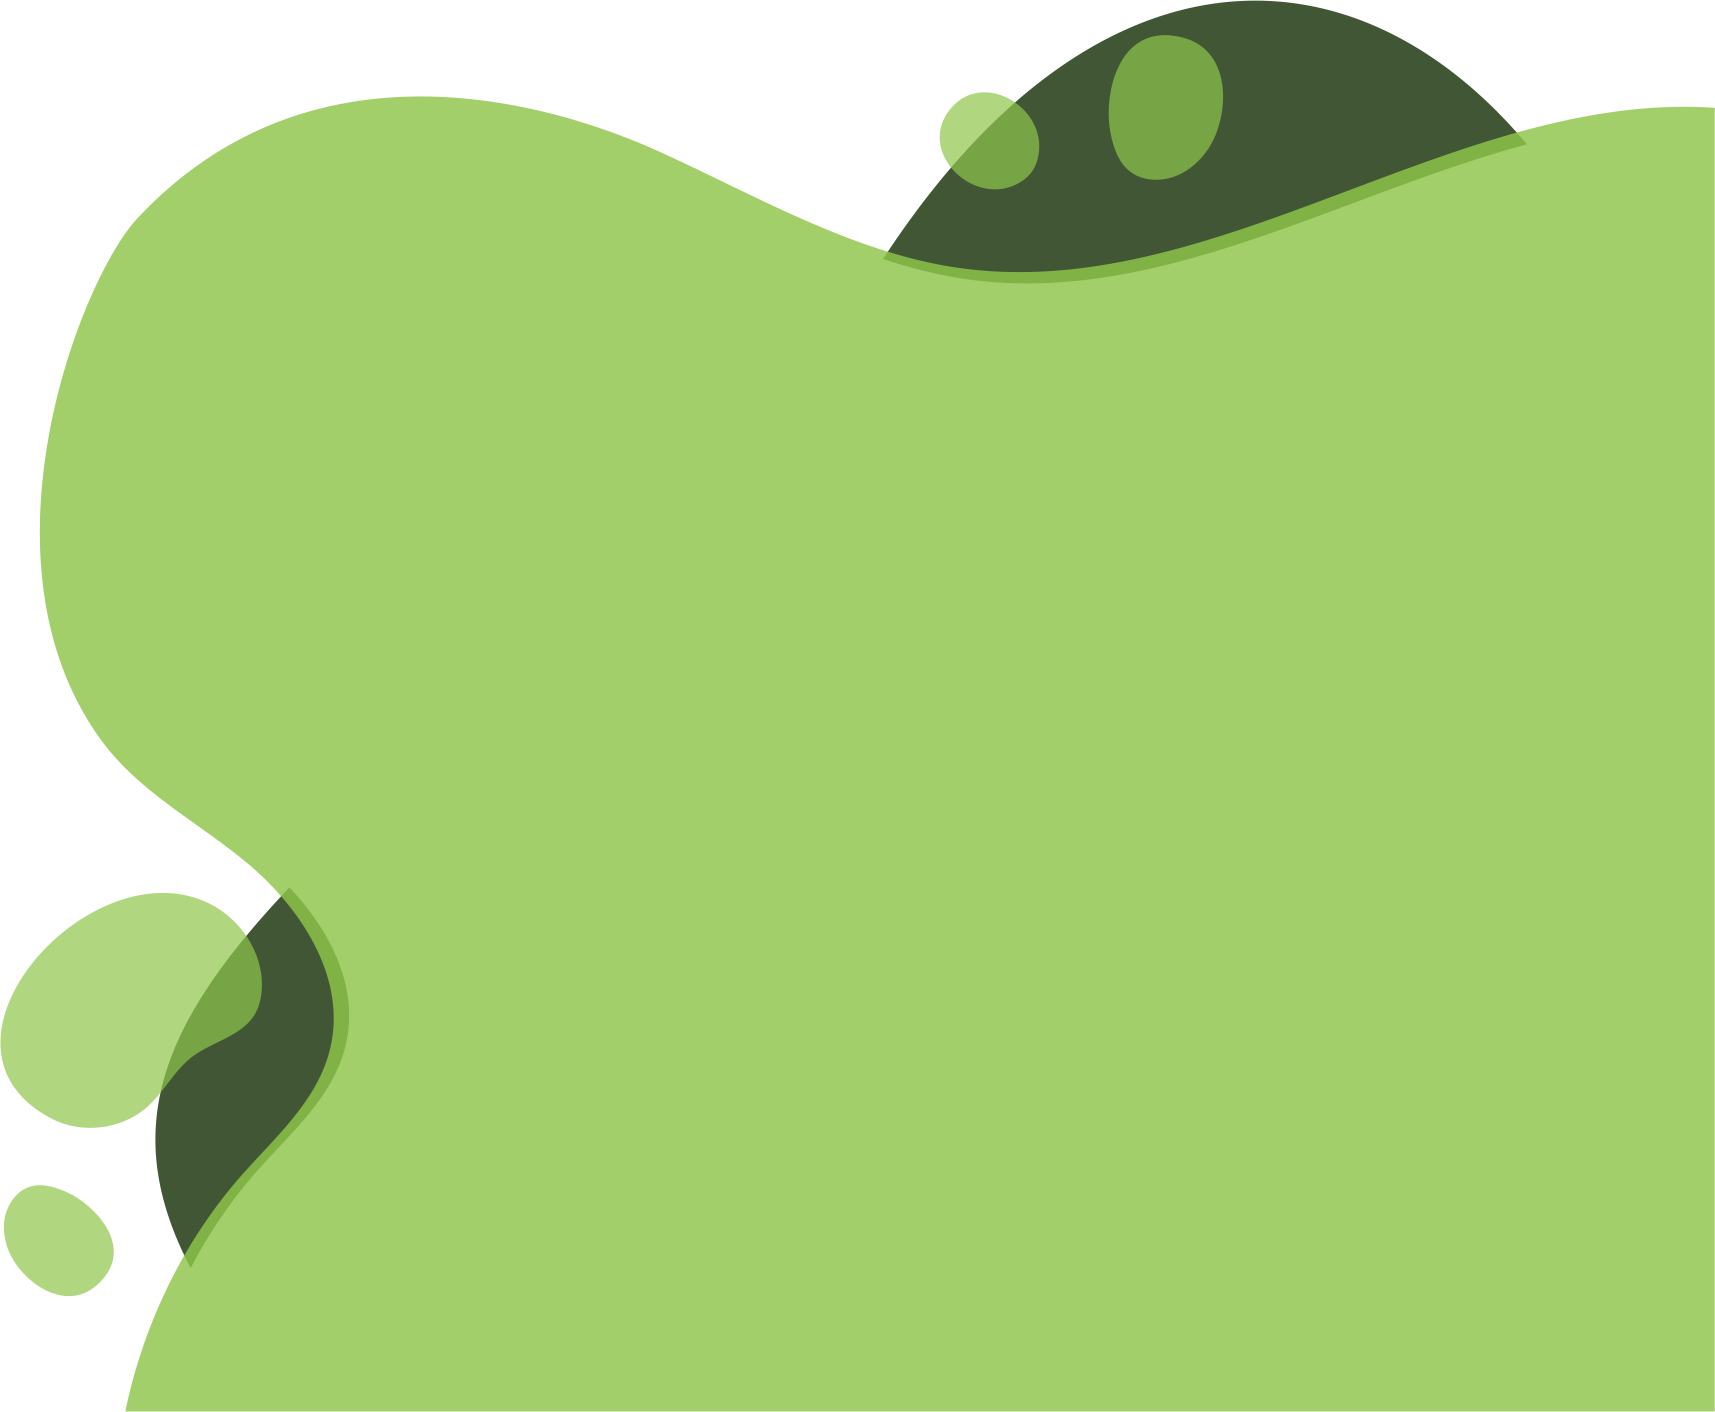
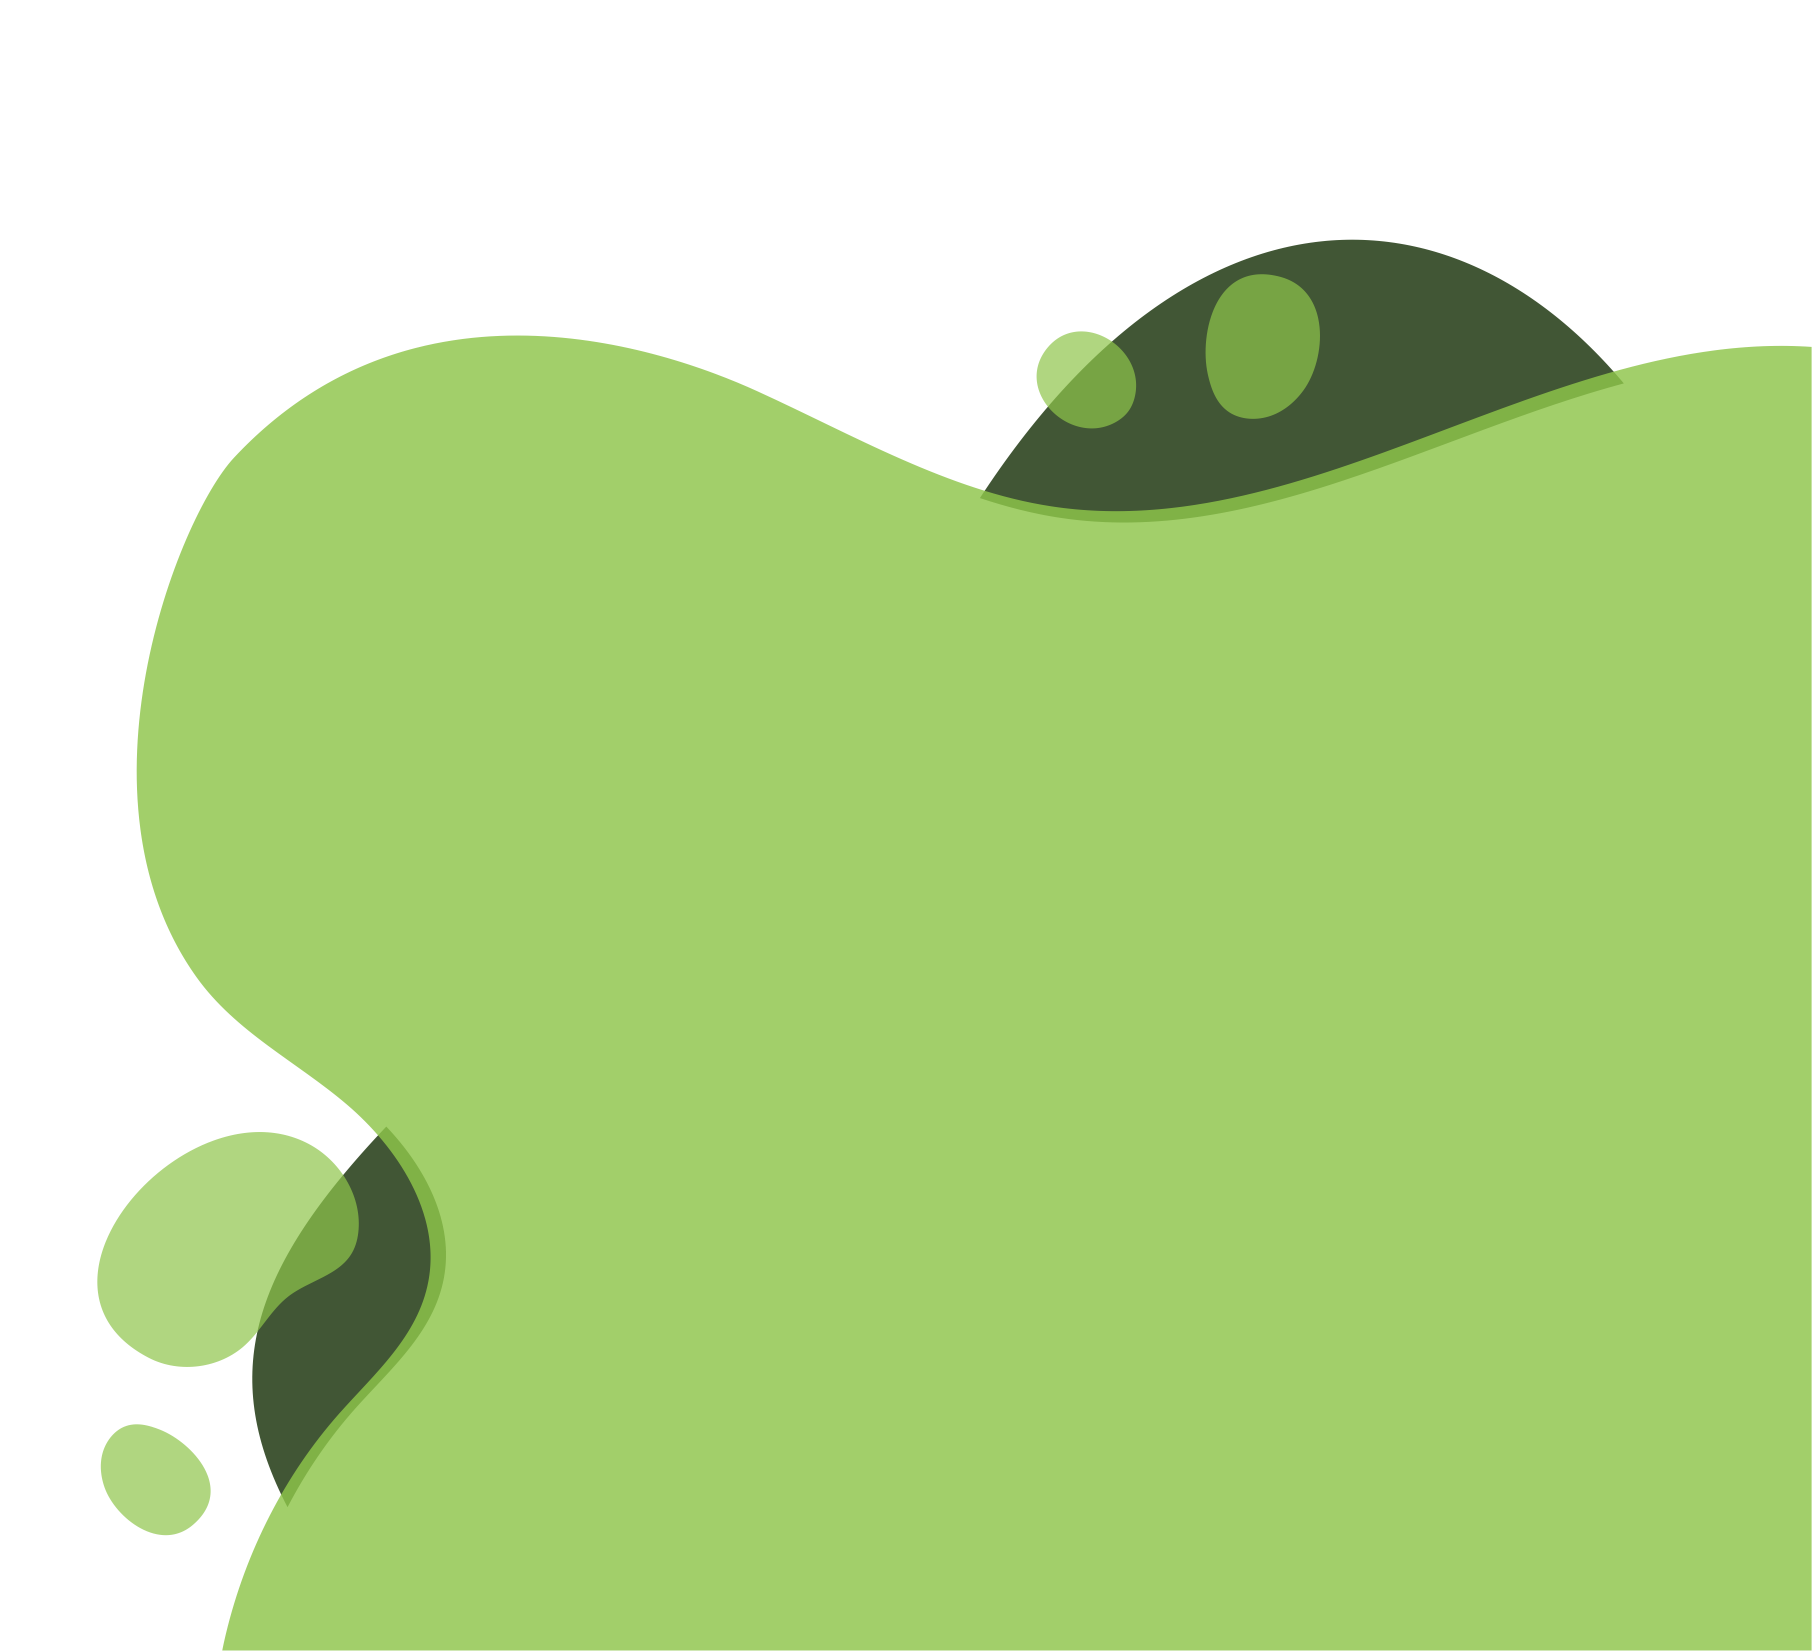
criação da seção nosso produto

Changed region(s): [[0.0, 0.0, 1.0, 0.5609], [0.0, 0.5609, 1.0, 1.0]]

diff --git a/src/components/home/NossoProduto/NossoProduto.styled.js b/src/components/home/NossoProduto/NossoProduto.styled.js
@@ -1,0 +1,140 @@
+import styled from "styled-components"
+import media from "styled-media-query"
+
+import NossoProdutoBackground from "./NossoProdutoBackground"
+
+export const NossoProdutoWrapper = styled(NossoProdutoBackground)`
+  background-color: #c9deaf;
+  background-position: right top;
+  background-size: contain;
+
+  width: 100%;
+  height: 100vh;
+`
+
+export const NossoProdutoContainer = styled.div`
+  display: flex;
+  margin: 0 12.5%;
+  padding-top: 70px;
+
+  ${media.lessThan("large")`
+    margin: 0 7.5%;
+  `}
+`
+
+export const TextContainer = styled.div`
+  align-self: left;
+  display: flex;
+  flex-direction: column;
+  justify-content: space-around;
+  width: 50%;
+  height: 100%;
+  margin-bottom: 50px;
+
+  ${media.lessThan("medium")`
+    width: 50%;
+  `}
+`
+
+export const Title = styled.h2`
+  color: #324031;
+  font-family: Knewave;
+  font-style: normal;
+  font-weight: normal;
+  font-size: 42px;
+  line-height: 42px;
+  text-align: left;
+  margin-bottom: 50px;
+
+  ${media.lessThan("medium")`
+    font-size: 34px;
+    line-height: 34px;
+  `}
+
+  ${media.lessThan("small")`
+   font-size: 24px;
+   line-height: 24px;
+  `}
+`
+
+export const Text = styled.p`
+  color: #000000;
+  font-family: Montserrat;
+  font-style: normal;
+  font-weight: normal;
+  font-size: 16px;
+  line-height: 28px;
+  width: 374px;
+
+  ${media.lessThan("small")`
+    font-size: 14px;
+    line-height: 26px;
+    text-align: justify;
+  `}
+`
+
+export const FormContainer = styled.div`
+  display: flex;
+  flex-direction: column;
+  justify-content: flex-end;
+  width: 50%;
+
+  input[name='message'] {
+    height: 100px;
+  }
+`
+export const FormTitle = styled.h3`
+  font-family: Baloo;
+  font-style: normal;
+  font-weight: normal;
+  font-size: 24px;
+  line-height: 42px;
+  color: #324031;
+`
+export const Label = styled.label``
+Label.Text = styled.span`
+  font-family: Montserrat;
+  color: #53585d;
+  height: 20px;
+  position: relative;
+  top: -52px;
+  left: 16px;
+
+  display: flex;
+  align-items: flex-start;
+
+  transform-origin: 0% 0%;
+  font-size: 14px;
+  font-style: normal;
+  font-weight: 300;
+
+  transition: 0.1s ease-in-out;
+`
+
+export const Input = styled.input`
+  box-sizing: border-box;
+  background: #f5f5f5;
+  color: #53585d;
+  height: 50px;
+  width: 100%;
+  font-size: 18px;
+
+  outline: 0;
+  border: 0;
+  border-bottom: 2px solid #324031;
+
+  padding: 16px 16px;
+  margin-bottom: 5px;
+
+  resize: none;
+  border-radius: 4px;
+  transition: border-color 0.3s;
+
+  &:focus {
+    border-bottom-color: #ff8c25;
+  }
+
+  &:focus + span {
+    transform: scale(0.7) translateY(1px);
+  }
+`

diff --git a/src/components/home/NossoProduto/NossoProduto.js b/src/components/home/NossoProduto/NossoProduto.js
@@ -1,0 +1,43 @@
+import React from "react"
+import * as S from "./NossoProduto.styled"
+
+const NossoProduto = () => {
+  return (
+    <S.NossoProdutoWrapper>
+      <S.NossoProdutoContainer>
+        <S.TextContainer>
+          <S.Title>
+            Conheça
+            <br />
+            Nosso Produto
+          </S.Title>
+          <S.Text>
+            Nosso produto surgiu após um ano de pesquisa e desenvolvimento
+            aliando o conhecimento de profissionais de diversas áreas.
+            <br />O caldo de cana Naturaste é 100% natural, livre de
+            conservantes e com o açúcar natural da cana, mantendo todo o sabor
+            que você já conhece.
+            <br />
+            Experimente e nos mande a sua opinião. Vamos adorar saber a sua
+            experiência.
+          </S.Text>
+        </S.TextContainer>
+        <S.FormContainer>
+          <S.FormTitle>
+            Enviar opinião
+          </S.FormTitle>
+          <S.Label>
+            <S.Input type="text" name="name" />
+            <S.Label.Text>Nome</S.Label.Text>
+          </S.Label>
+          <S.Label>
+            <S.Input type="text" name="message"/>
+            <S.Label.Text>Mensagem</S.Label.Text>
+          </S.Label>
+        </S.FormContainer>
+      </S.NossoProdutoContainer>
+    </S.NossoProdutoWrapper>
+  )
+}
+
+export default NossoProduto

diff --git a/src/components/home/NossoProduto/NossoProdutoBackground.js b/src/components/home/NossoProduto/NossoProdutoBackground.js
@@ -1,0 +1,38 @@
+import React from "react"
+import { useStaticQuery, graphql } from "gatsby"
+import BackgroundImage from 'gatsby-background-image'
+
+const HeaderBackground = ({ className, children }) => {
+  const { headerImage } = useStaticQuery(
+    graphql`
+      query {
+        headerImage: file(
+          relativePath: { eq: "background-our-product.png" }
+        ) {
+          childImageSharp {
+            fluid(quality: 90, maxWidth: 1366) {
+              ...GatsbyImageSharpFluid_withWebp
+            }
+          }
+        }
+      }
+    `
+  )
+
+  return (
+    <BackgroundImage
+      Tag="section"
+      className={className}
+      fluid={headerImage.childImageSharp.fluid} 
+      id="gbitest"
+      role="img"
+      aria-label="gbitest"
+      fadeIn={`soft`}
+      background="red"
+    >
+      {children}
+    </BackgroundImage>
+  )
+}
+
+export default HeaderBackground

diff --git a/src/pages/index.js b/src/pages/index.js
@@ -3,11 +3,13 @@ import React from "react"
 import Layout from "../components/layout"
 import SEO from "../components/seo"
 import Header from "../components/home/Header/Header"
+import NossoProduto from "../components/home/NossoProduto/NossoProduto"
 
 const IndexPage = () => (
   <Layout>
     <SEO title="Home" />
     <Header />
+    <NossoProduto />
   </Layout>
 )
 
